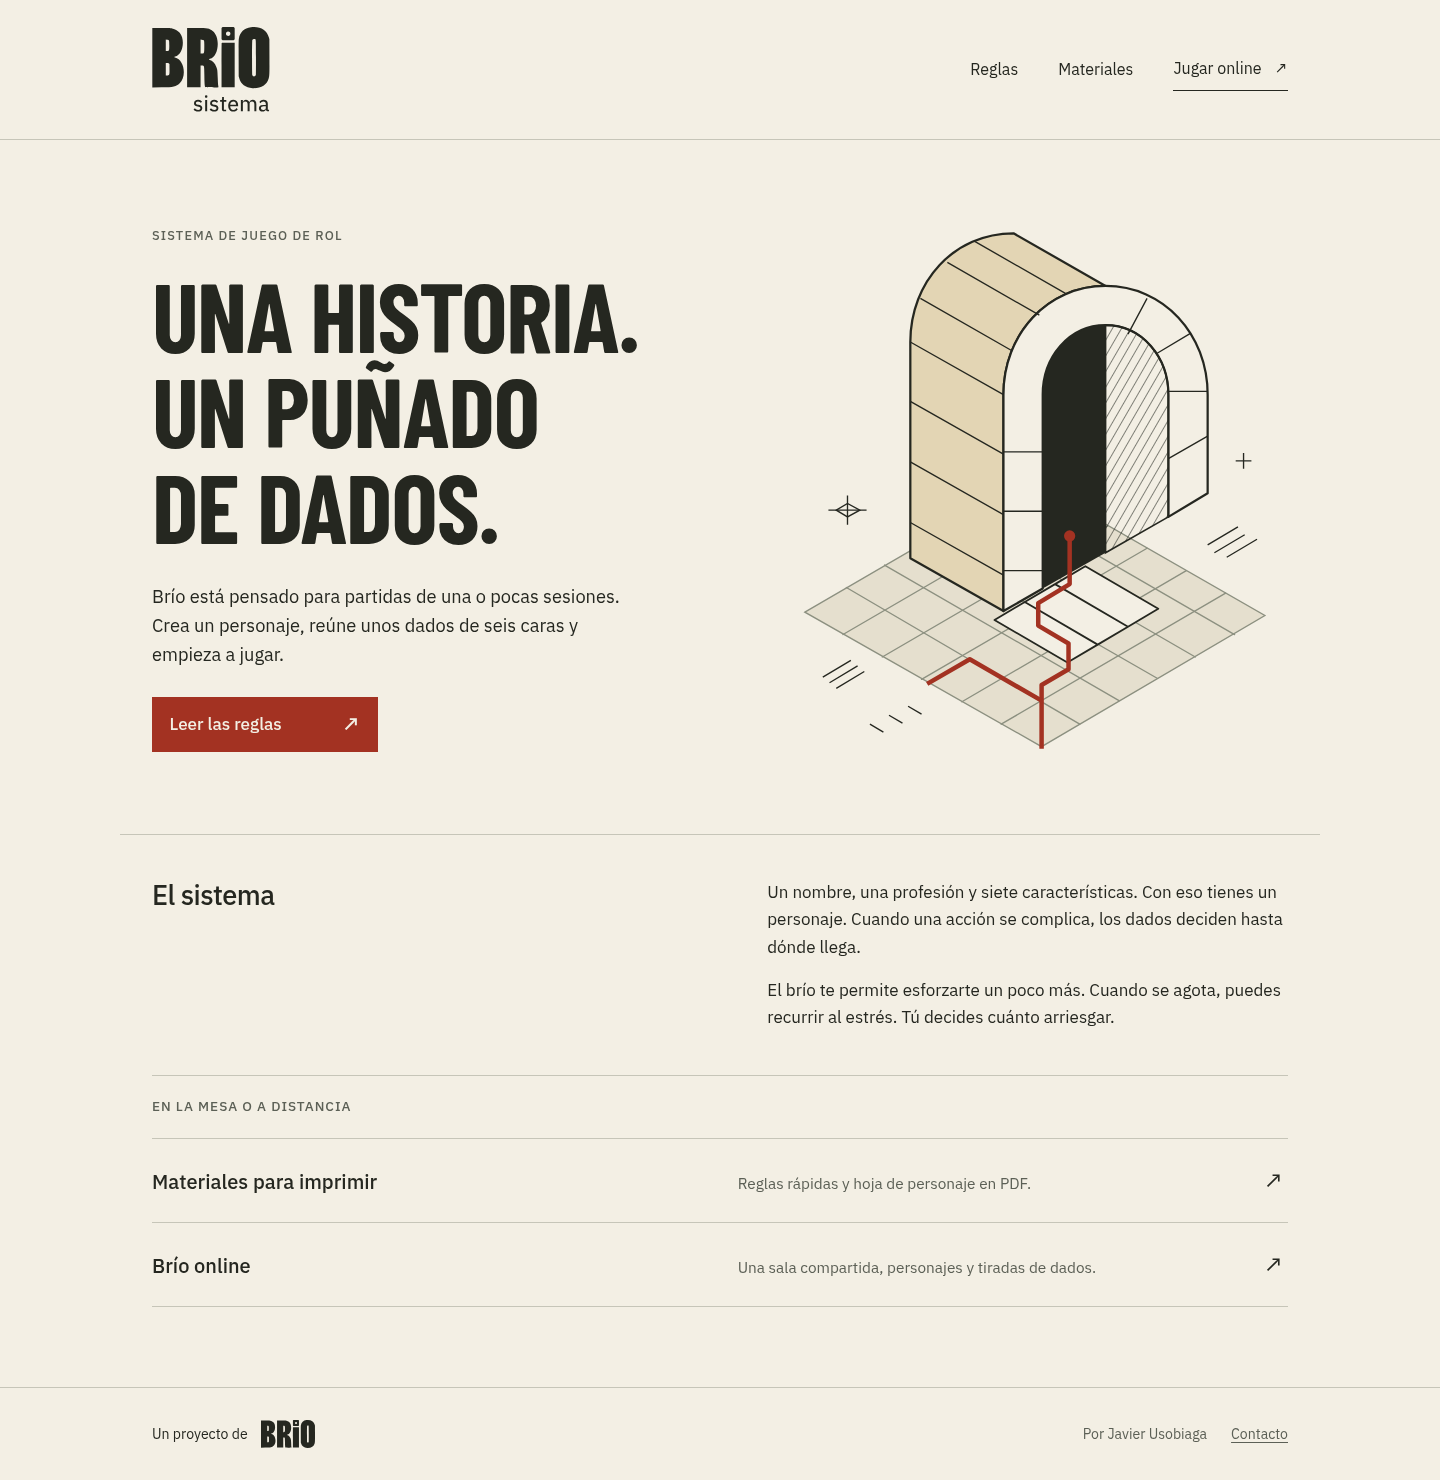
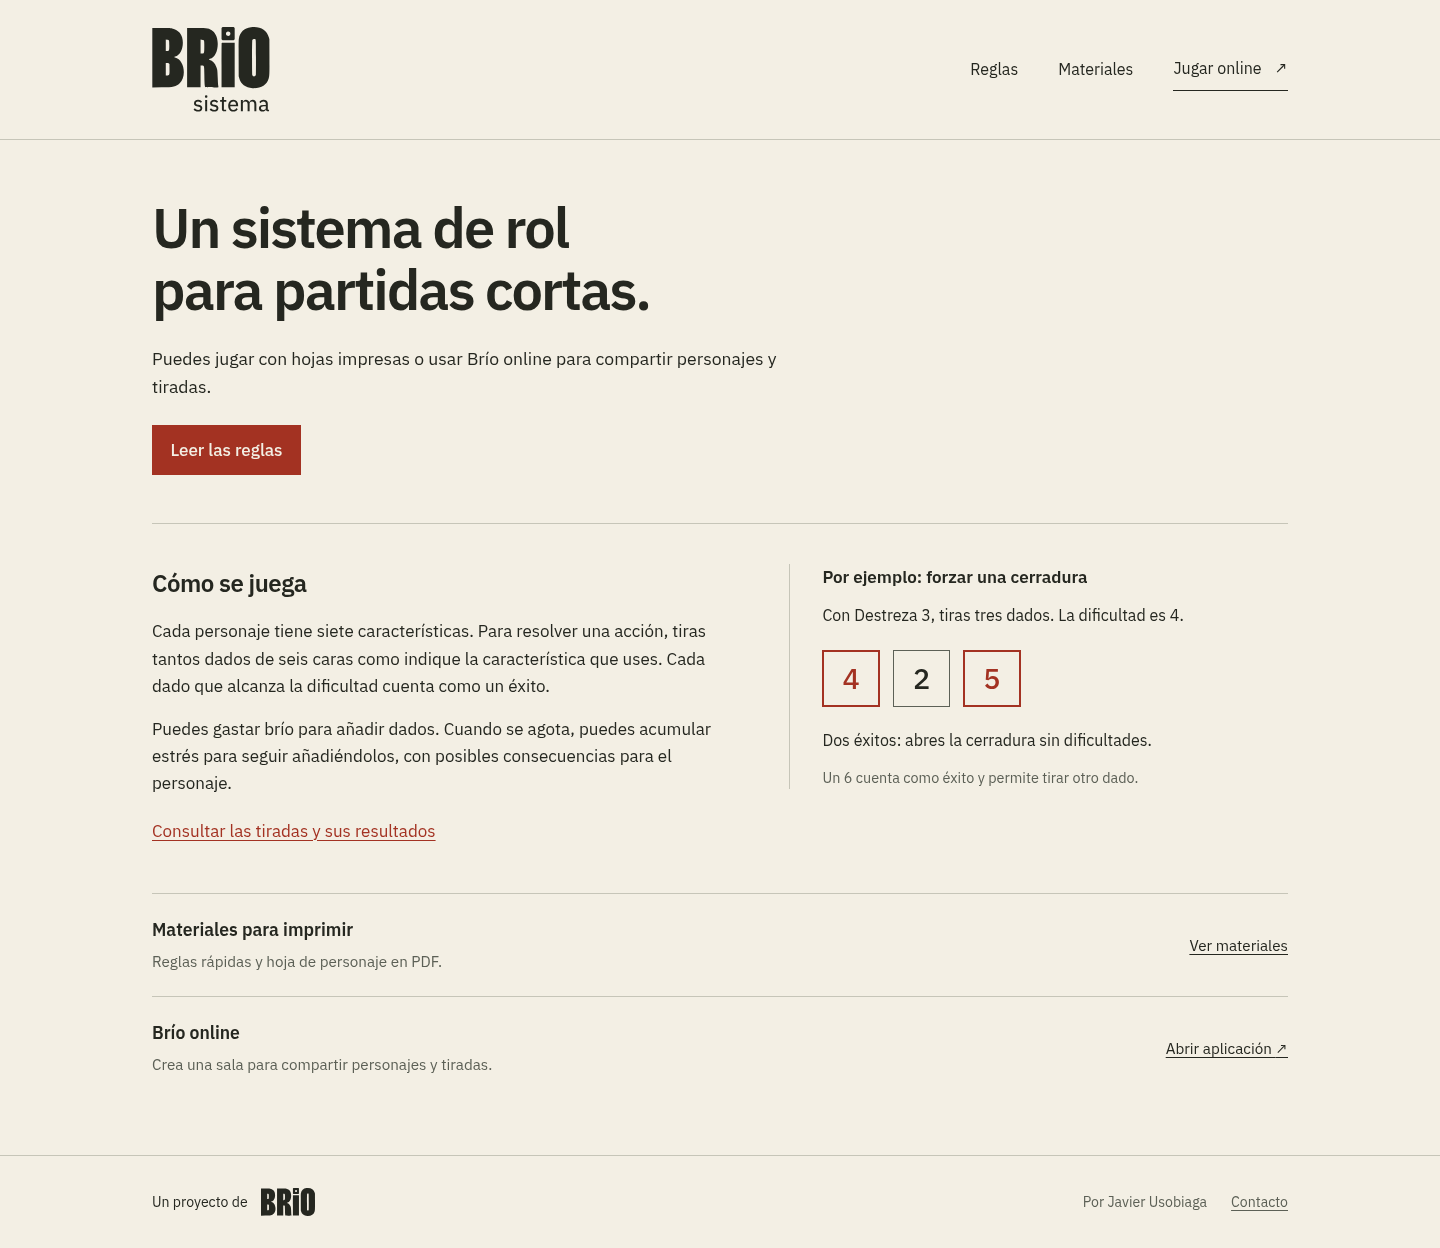
Document the critical second pass of Sistema design

diff --git a/docs/DECISIONS.md b/docs/DECISIONS.md
@@ -117,3 +117,9 @@ Se descarta el hosting de DreamHost para los dominios antiguos. La alternativa g
 Fecha: 2026-11-05. Estado: primera aplicación publicada, revisión visual en curso.
 
 Se recuperan los SVG finales de la familia y se aplican al directorio Brío Rol, Sistema y la firma de Online. Sistema es la primera aplicación completa: composición editorial de reglas, tipografía local, papel, tinta y rojo, con ilustración vectorial propia en lugar de renders de géneros distintos. Se mantienen las mecánicas, los PDFs y la interfaz de las salas. Ruido queda como siguiente aplicación, una vez contrastada esta dirección. Referencia: `specs/03-family-web.md`.
+
+## D-018 — Corregir el tratamiento de campaña de Sistema
+
+Fecha: 2026-11-05. Estado: segunda revisión en publicación.
+
+La primera aplicación seguía dependiendo de un slogan, una ilustración de ambiente y recursos de portada genéricos. Se sustituyen por una presentación breve y un ejemplo real de las reglas. La identidad común se mantiene en los logos, el color y la tipografía de lectura; no exige repetir una plantilla gráfica en cada producto. Se retiran numeraciones decorativas y flechas de navegación interna. Referencia: `specs/03-family-web.md`.

diff --git a/docs/specs/03-family-web.md b/docs/specs/03-family-web.md
@@ -30,3 +30,7 @@ Capturas locales: [portada Sistema](../previews/sistema-desktop.png), [móvil](.
 ## Publicación
 
 Los despliegues de Sistema, Online y Brío Rol terminaron correctamente el 2026-11-05. Brío Rol incorpora los logos mediante el PR #4. Sistema publica el rediseño completo; Online incorpora la firma y conserva sus temas e interfaz. La propuesta de diseño y estas capturas siguen abiertas a revisión. GitHub todavía indica certificado pendiente para Sistema y Online; esto se registra por separado y no se presenta como HTTPS validado.
+
+## Segunda revisión crítica de Sistema
+
+Se descarta el tratamiento de portada de la primera entrega: titular de campaña en mayúsculas, tipografía condensada e ilustración de un portal. El texto presenta el uso del sistema directamente y un ejemplo de las reglas sustituye la decoración: Destreza 3, dificultad 4, resultados 4/2/5 y dos éxitos. Se usa Plex en toda la web. Se eliminan numeraciones sin secuencia real, etiquetas repetidas y flechas de enlaces internos. La revisión no cambia mecánicas ni PDFs. Las capturas se actualizan con esta segunda aplicación.
